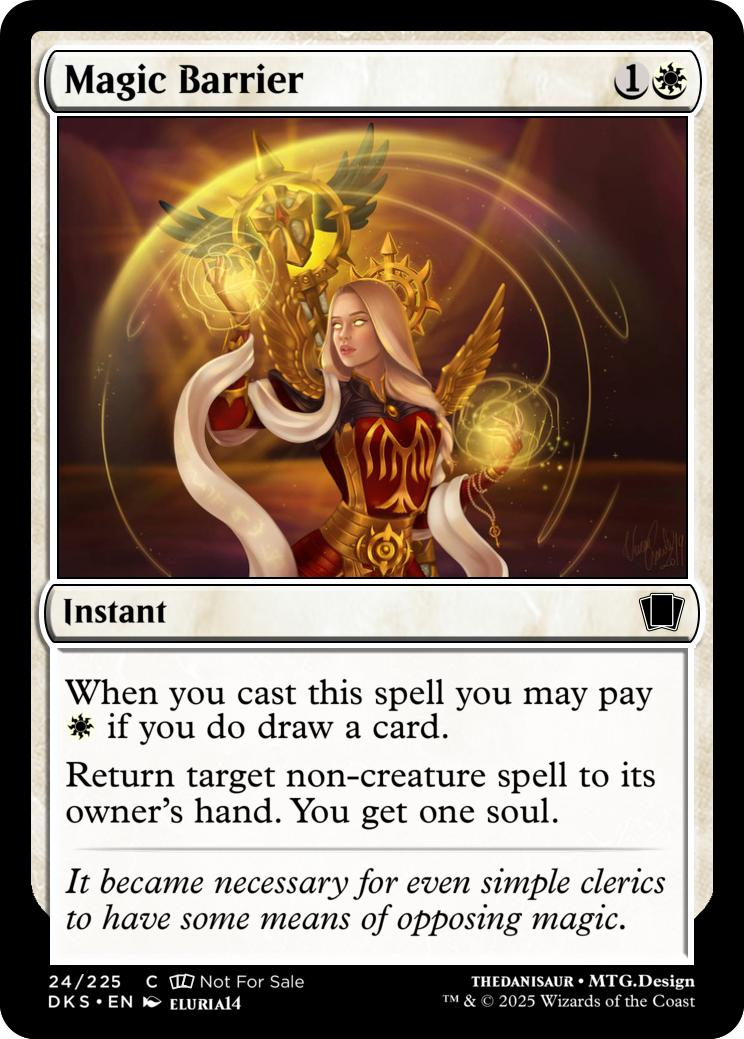
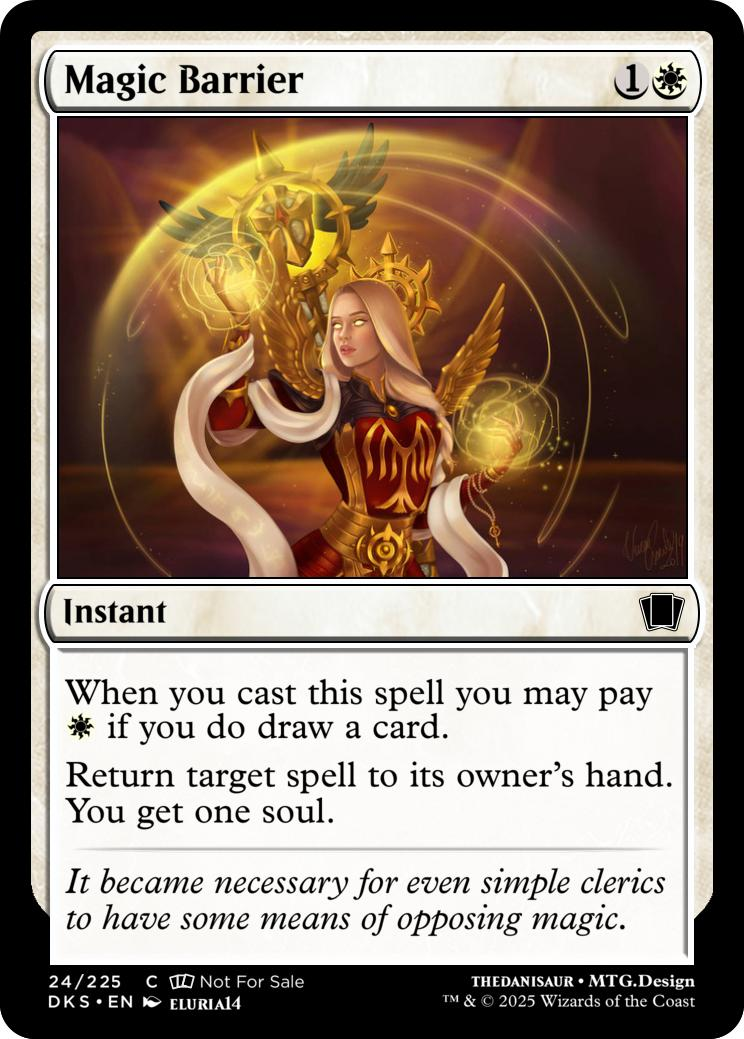
Remove great magic barrier

Changed region(s): [[0.0927, 0.7084, 0.8965, 0.8008]]

diff --git a/suggestions.md b/suggestions.md
@@ -1,6 +1,3 @@
 add trample for green
-
+amana priestess is too good
 great crab is so fucking bad
-great magic barrier is no fun
-
-1 common needs to be made uncommon
